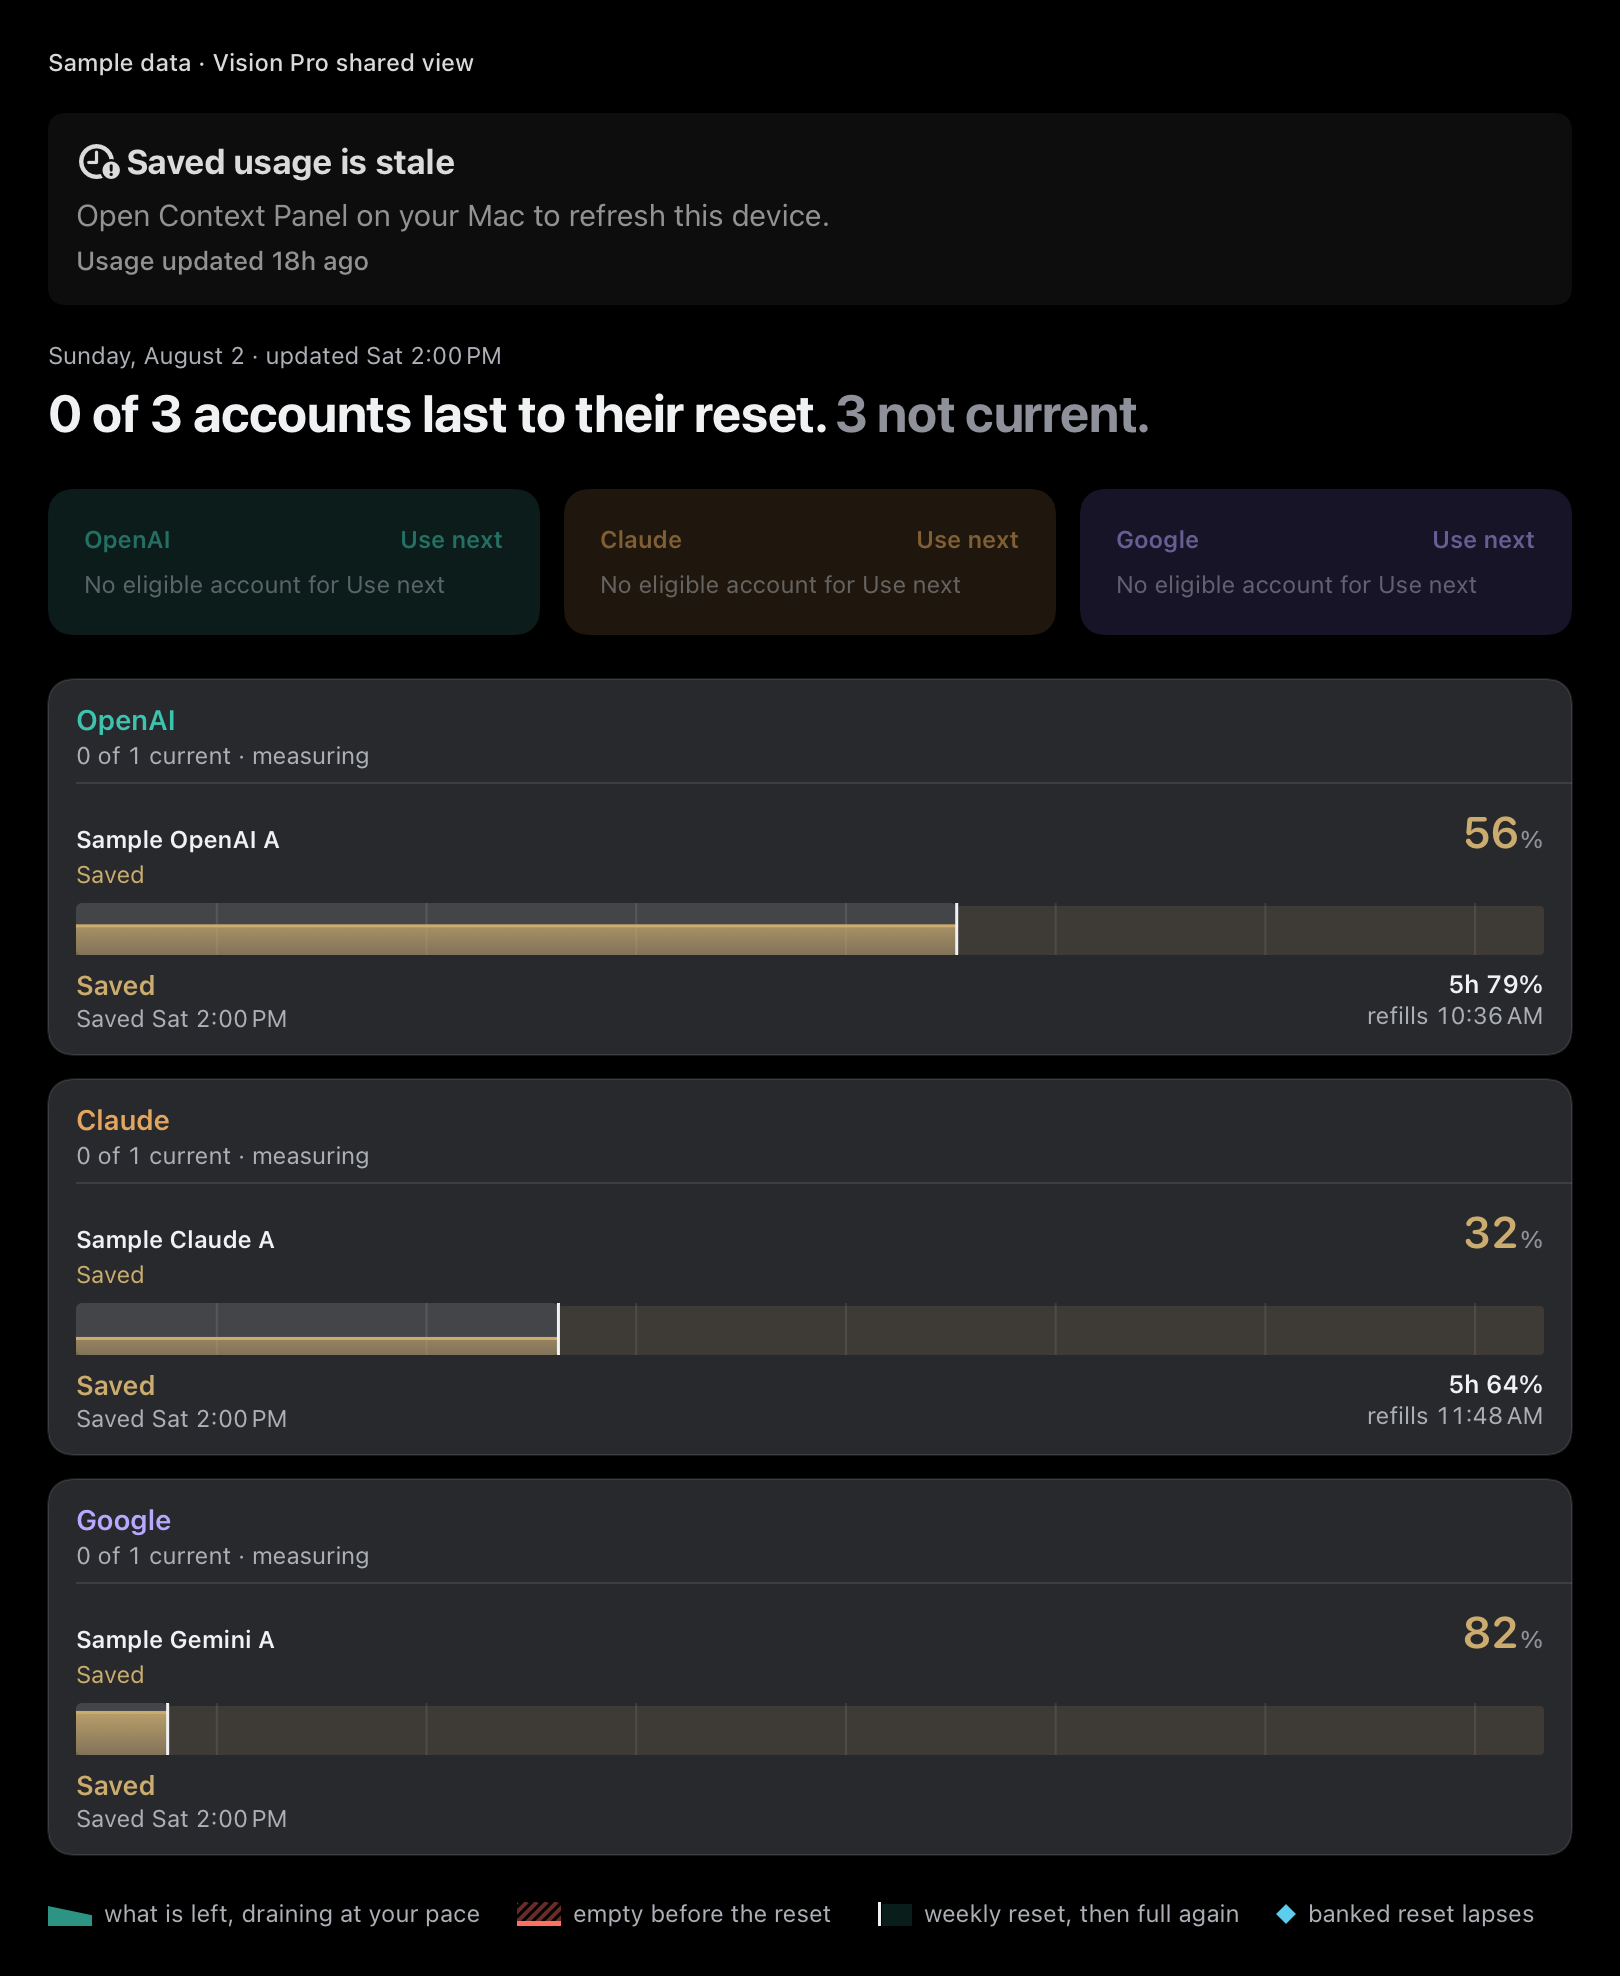
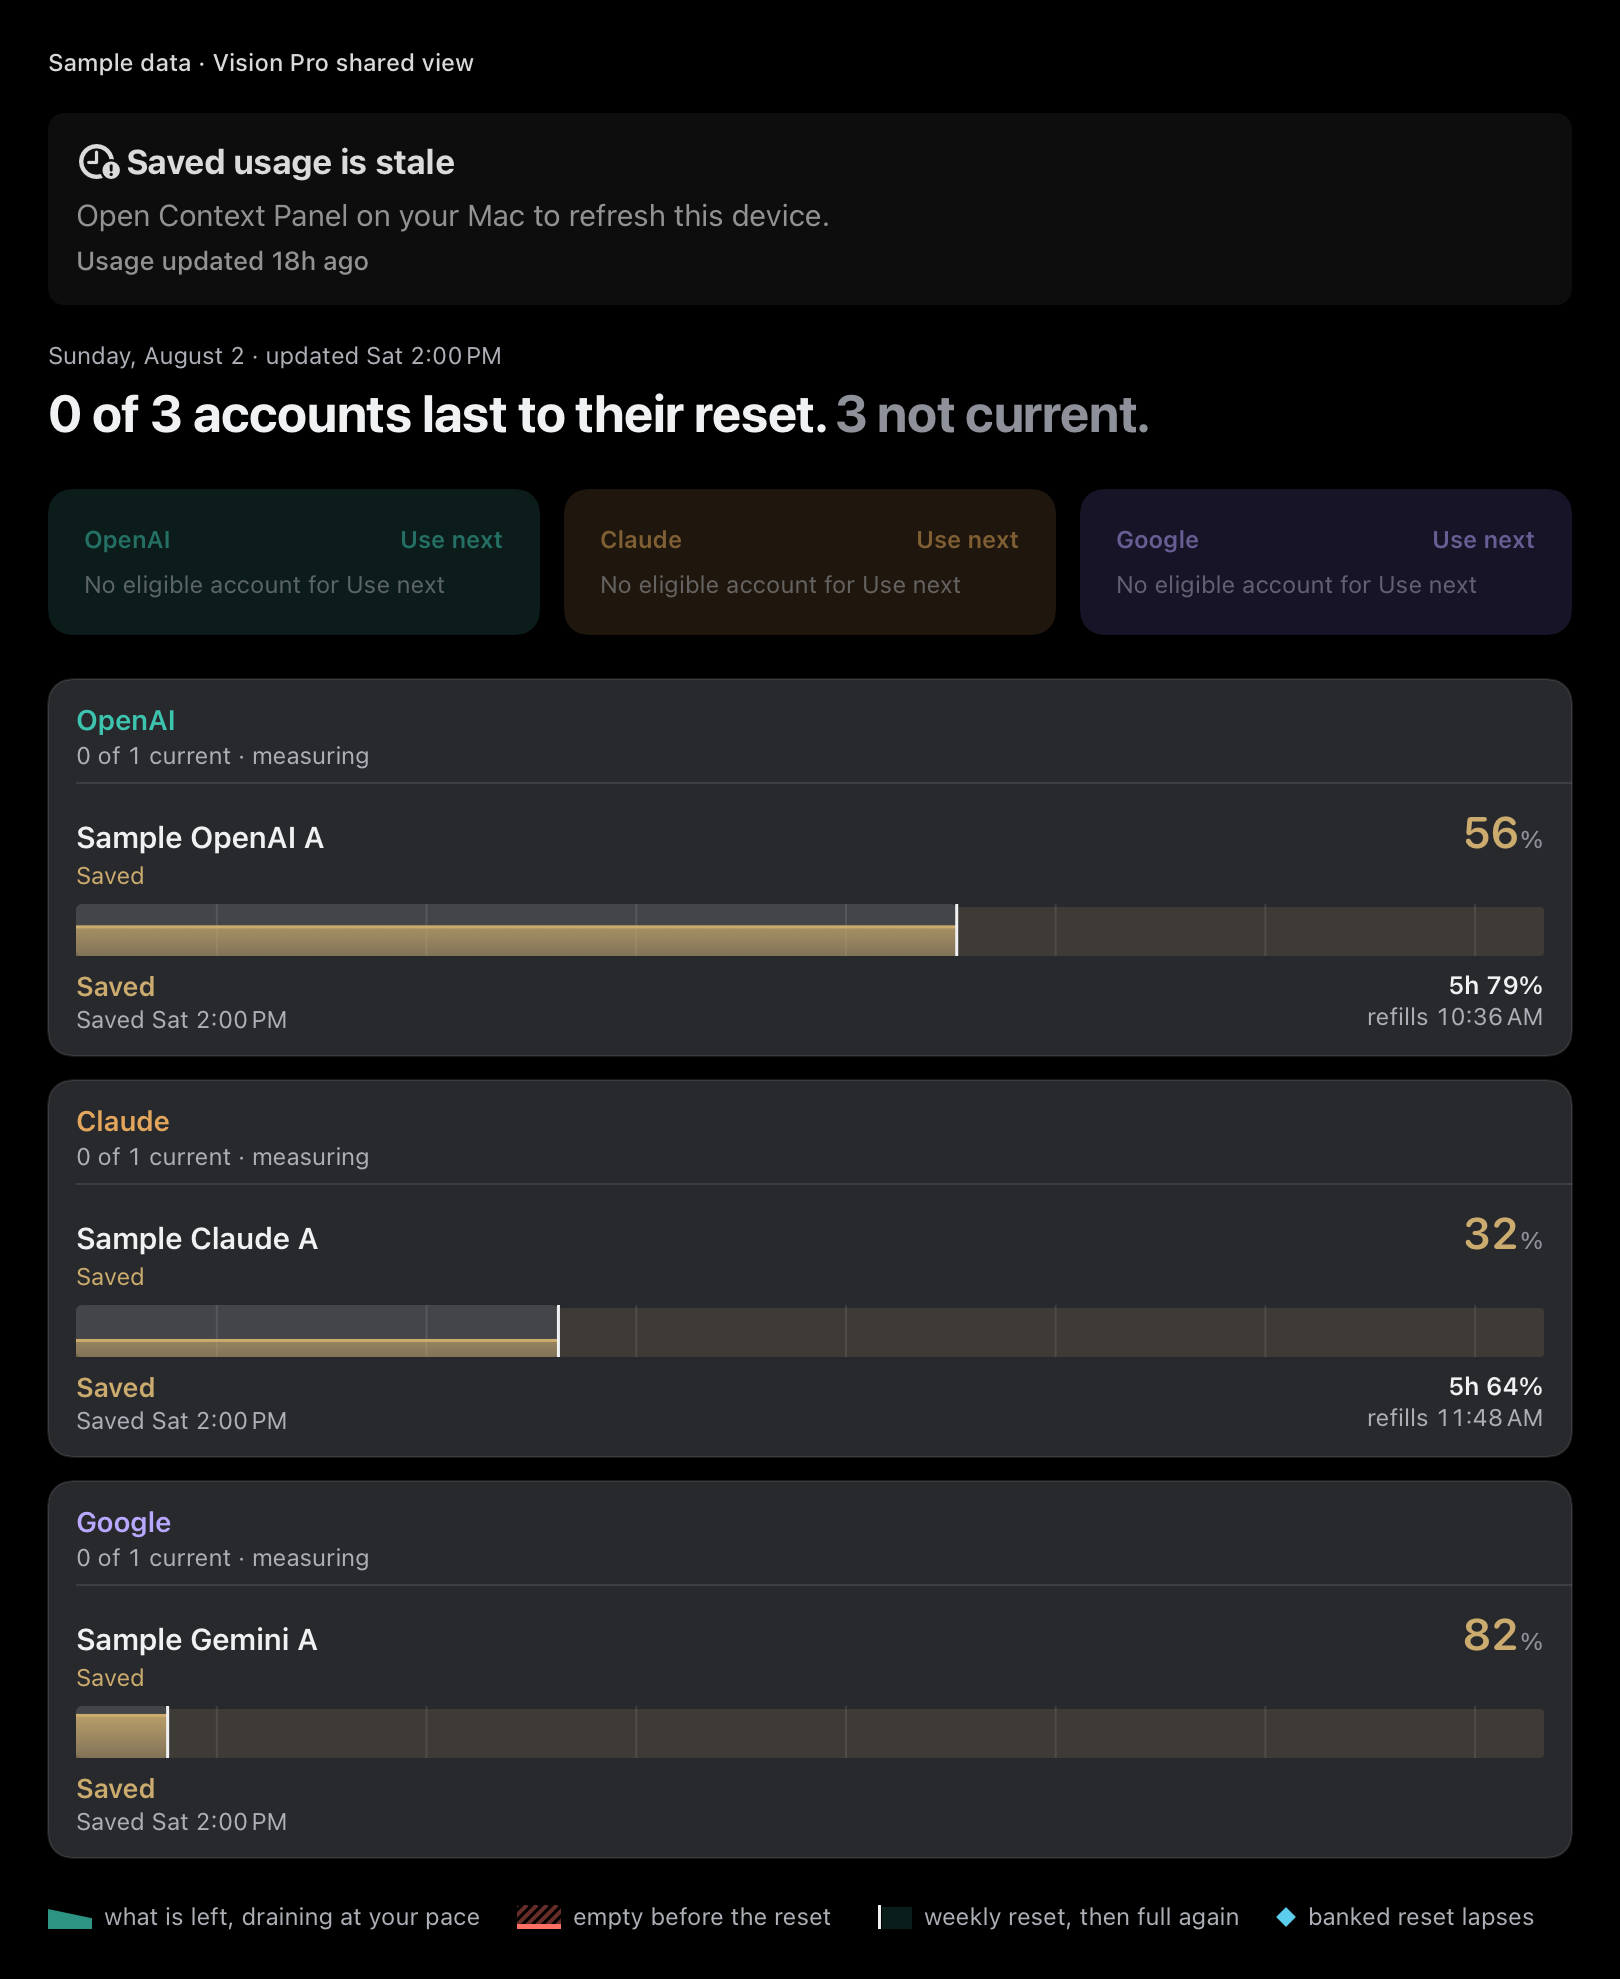
Keep Vision row names readable and capture banked resets at the accessible width

diff --git a/Tests/ContextPanelCompanionSharedViewCaptureUITests/ContextPanelCompanionSharedViewCaptureUITests.swift b/Tests/ContextPanelCompanionSharedViewCaptureUITests/ContextPanelCompanionSharedViewCaptureUITests.swift
@@ -414,10 +414,10 @@ final class SpatialAccountOverviewCaptureTests: XCTestCase {
         let dense = ValidationGalleryFixtureAdapter().snapshot(fixtureID: .denseAccounts, presentationDate: now)
         let denseOverview = dense.accountOverview(now: now)
         let ordinary = ImageRenderer(content: AccountDashboardPanel(overview: denseOverview, now: now,
-            compact: true, openAccount: { _ in }, openDeadlines: {}).frame(width: 1080))
+            compact: true, openAccount: { _ in }, openDeadlines: {}).frame(width: 720))
         let enlarged = ImageRenderer(content: SpatialAccountOverviewPanel(overview: denseOverview, now: now,
-            contentWidth: 1080, openAccount: { _ in }, openDeadlines: {})
-            .frame(width: 1080).environment(\.dynamicTypeSize, .accessibility3))
+            contentWidth: 720, openAccount: { _ in }, openDeadlines: {})
+            .frame(width: 720).environment(\.dynamicTypeSize, .accessibility3))
         XCTAssertGreaterThan(try XCTUnwrap(enlarged.uiImage).size.height,
             try XCTUnwrap(ordinary.uiImage).size.height + 200,
             "Account text must grow, rather than only switching to the stacked layout.")
@@ -430,7 +430,8 @@ final class SpatialAccountOverviewCaptureTests: XCTestCase {
             ("stale-dark", .stale, 810, .dark, .large),
             ("empty-light", .missing, 810, .light, .large),
             ("long-names-light", .fitFallback, 540, .light, .large),
-            ("accessibility-dark", .denseAccounts, 1128, .dark, .accessibility3),
+            ("accessibility-dark", .denseAccounts, 768, .dark, .accessibility3),
+            ("banked-accessibility-dark", .denseAccounts, 768, .dark, .accessibility5),
         ]
         for (name, fixtureID, width, scheme, textSize) in cases {
             let snapshot = ValidationGalleryFixtureAdapter().snapshot(
@@ -438,7 +439,16 @@ final class SpatialAccountOverviewCaptureTests: XCTestCase {
             let stored = StoredUsageSnapshot(savedAt: now, snapshot: UsageSnapshot(generatedAt: snapshot.generatedAt, limits: snapshot.limits), reports: snapshot.reports)
             let document = snapshot.state == .setupNeeded ? nil : CompanionSyncDocument(storedSnapshot: stored, publishedAt: now)
             let presentation = CompanionSyncPresentation(result: CompanionSyncLoadResult(document: document, status: snapshot.status), now: now)
-            let overview = snapshot.accountOverview(now: now, maximumAge: SnapshotFreshness.companionProviderMaximumAge)
+            var overview = snapshot.accountOverview(now: now, maximumAge: SnapshotFreshness.companionProviderMaximumAge)
+            if name == "banked-accessibility-dark" {
+                let credits = ProviderResetCreditSummary(availableCount: 3, observedAt: now,
+                    coverage: .partial, knownExpiries: [now.addingTimeInterval(2 * 86_400), now.addingTimeInterval(5 * 86_400)])
+                let report = StoredProviderReport(provider: .openAI, accountID: "sample-openai-a",
+                    configuredAccountID: "sample-openai-a", accountName: "Sample OpenAI A", generatedAt: now,
+                    resetCredits: credits, status: .healthy, errorMessage: nil)
+                overview = AccountOverview(snapshot: stored.snapshot, reports: [report], now: now)
+                XCTAssertEqual(overview.deadlines.map(\.expiresAt), credits.knownExpiries)
+            }
             let content = VStack(alignment: .leading, spacing: 18) {
                 Text("Sample data · Vision Pro shared view").font(.caption)
                 // A synthetic sync shell; production reuses CompanionSyncStatusView from #807.

diff --git a/Sources/ContextPanelSettingsUI/AccountDashboardViews.swift b/Sources/ContextPanelSettingsUI/AccountDashboardViews.swift
@@ -98,7 +98,7 @@ public struct AccountDashboardPanel: View {
                         .foregroundStyle(palette.secondary)
                     Image(systemName: "chevron.right").font(scaledFont(9, weight: .semibold)).foregroundStyle(palette.tertiary)
                 }
-                .font(scaledFont(12)).monospacedDigit().lineLimit(1)
+                .font(scaledFont(12)).monospacedDigit().lineLimit(textScale > 1 ? nil : 1)
                 .contentShape(Rectangle())
             }
             .buttonStyle(.plain)
@@ -315,7 +315,7 @@ public struct AccountDashboardPanel: View {
 
     private func nameBlock(_ account: AccountOverview.Account) -> some View {
         VStack(alignment: .leading, spacing: 3) {
-            (Text(account.metadata.label).font(scaledFont(compact ? 15 : AccountTextSize.appMinimum, weight: .semibold))
+            (Text(account.metadata.label).font(scaledFont(compactAccounts ? 15 : AccountTextSize.appMinimum, weight: .semibold))
              + tags(account))
                 .lineLimit(3).fixedSize(horizontal: false, vertical: true)
             meta(account)
